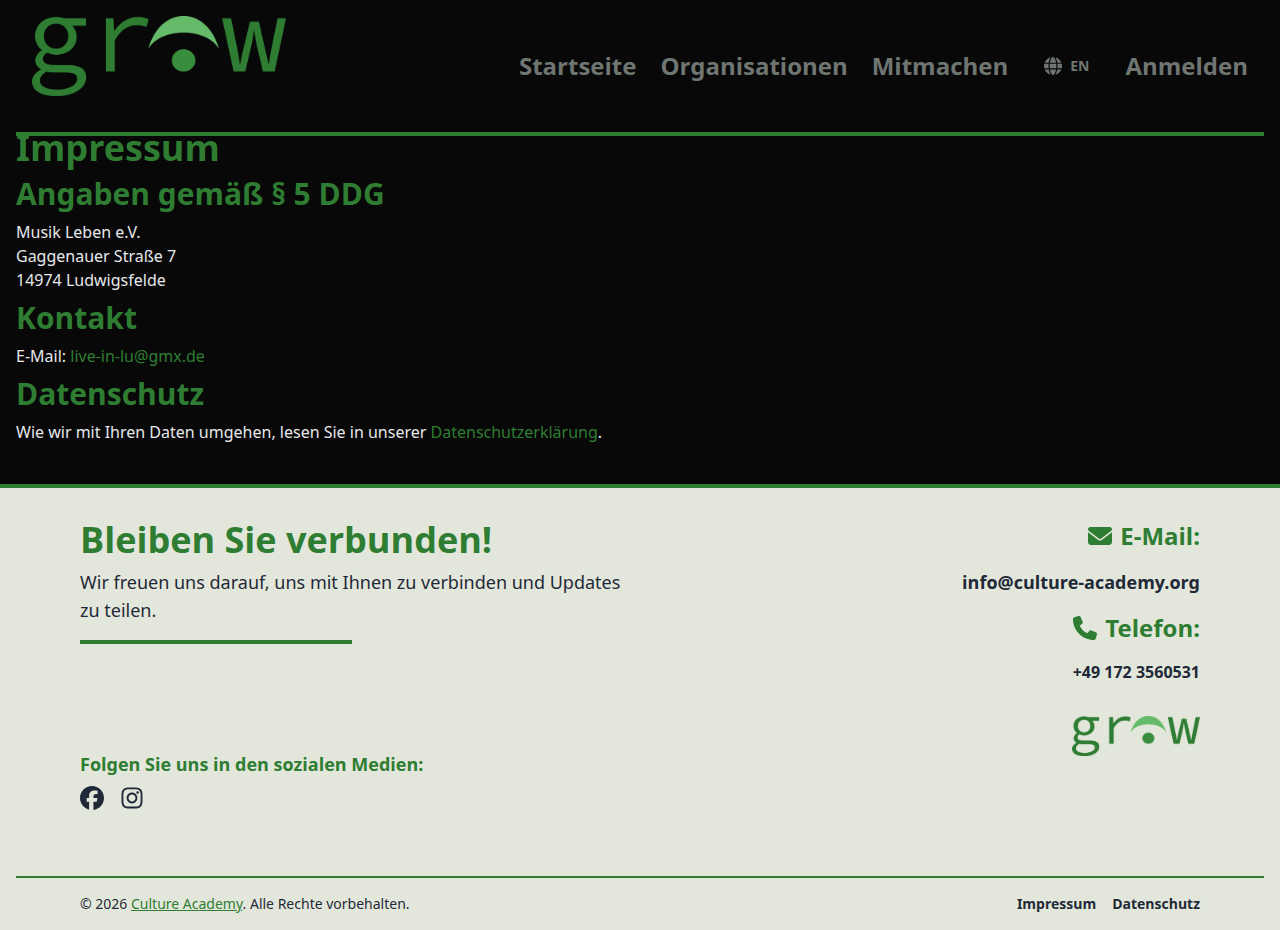
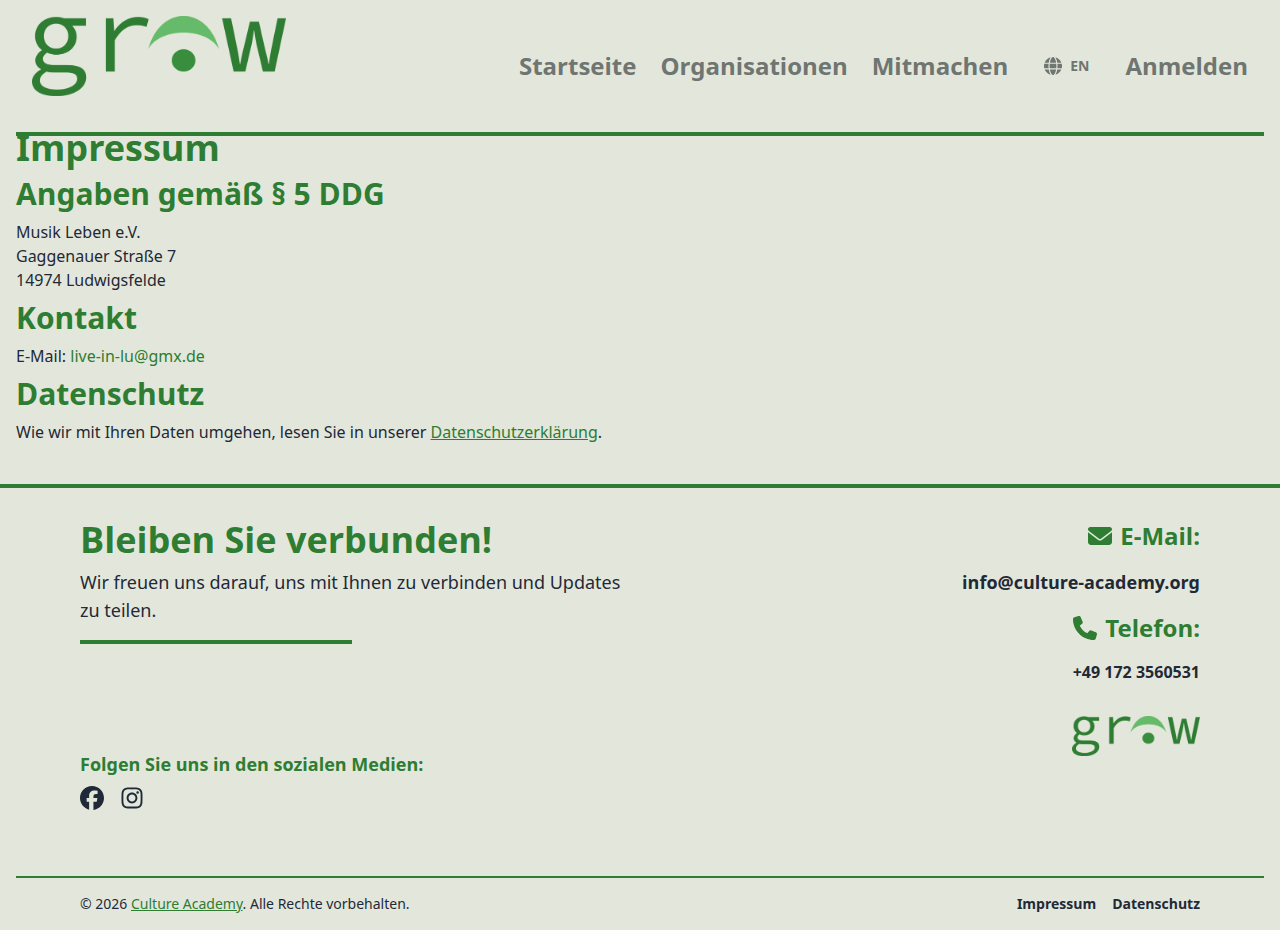
fix: redirect /privacy, light background on legal pages
- /privacy redirects permanently to /datenschutz
- Impressum and Datenschutz use the page background like other pages
- underline the in-text privacy link (axe link-in-text-block)

diff --git a/my-culture-app/src/views/Datenschutz.jsx b/my-culture-app/src/views/Datenschutz.jsx
@@ -14,7 +14,7 @@ const Datenschutz = () => {
   return (
     <main
       id="datenschutz"
-      className="flex flex-col justify-center items-center bg-neutral text-gray-200"
+      className="flex flex-col justify-center items-center text-gray-800"
     >
       <article className="max-w-screen-xl mt-32 flex flex-col gap-2 text-pretty px-4 mb-10">
         <h1 className="text-3xl sm:text-4xl font-bold text-primary">
@@ -205,7 +205,7 @@ const Datenschutz = () => {
           <br />
           <a
             href="mailto:live-in-lu@gmx.de"
-            className="text-primary hover:text-gray-200 hover:underline"
+            className="text-primary hover:underline"
           >
             live-in-lu@gmx.de
           </a>
@@ -250,7 +250,7 @@ const Datenschutz = () => {
         <p>
           <a
             href="https://www.bfdi.bund.de/DE/Infothek/Anschriften_Links/anschriften_links-node.html"
-            className="text-xs sm:text-lg text-primary hover:text-gray-200 hover:underline"
+            className="text-xs sm:text-lg text-primary hover:underline"
           >
             www.bfdi.bund.de/.../anschriften_links-node.html
           </a>

diff --git a/my-culture-app/src/views/Impressum.jsx b/my-culture-app/src/views/Impressum.jsx
@@ -16,7 +16,7 @@ const Impressum = () => {
   return (
     <main
       id="impressum"
-      className="flex flex-col justify-center items-center bg-neutral text-gray-200"
+      className="flex flex-col justify-center items-center text-gray-800"
     >
       <article className="max-w-screen-xl w-full mt-32 flex flex-col gap-2 text-pretty px-4 mb-10">
         <h1 className="text-3xl sm:text-4xl font-bold text-primary">
@@ -34,7 +34,7 @@ const Impressum = () => {
           E-Mail:{' '}
           <a
             href="mailto:live-in-lu@gmx.de"
-            className="text-primary hover:text-gray-200 hover:underline"
+            className="text-primary hover:underline"
           >
             live-in-lu@gmx.de
           </a>
@@ -46,7 +46,7 @@ const Impressum = () => {
           Wie wir mit Ihren Daten umgehen, lesen Sie in unserer{' '}
           <Link
             to="/datenschutz"
-            className="text-primary hover:text-gray-200 hover:underline"
+            className="text-primary underline hover:no-underline"
           >
             Datenschutzerklärung
           </Link>

diff --git a/my-culture-app/e2e/pages.spec.ts b/my-culture-app/e2e/pages.spec.ts
@@ -49,6 +49,14 @@ test('footer links lead to Impressum and Datenschutz', async ({ page }) => {
   await expect(page).toHaveURL(/\/datenschutz$/);
 });
 
+test('old /privacy link redirects to /datenschutz', async ({ page }) => {
+  await page.goto('/privacy');
+  await expect(page).toHaveURL(/\/datenschutz$/);
+  await expect(
+    page.getByRole('heading', { level: 1, name: 'Datenschutzerklärung' })
+  ).toBeVisible();
+});
+
 test('favicon and touch icon are served', async ({ request }) => {
   for (const path of ['/logo/favicon.ico', '/logo/apple-touch-icon.png']) {
     expect((await request.get(path)).status()).toBe(200);

diff --git a/my-culture-app/next.config.ts b/my-culture-app/next.config.ts
@@ -1,5 +1,12 @@
 import type { NextConfig } from 'next';
 
-const nextConfig: NextConfig = {/* config options here */};
+const nextConfig: NextConfig = {
+  // The footer used to link to /privacy; keep old links working.
+  async redirects() {
+    return [
+      { source: '/privacy', destination: '/datenschutz', permanent: true },
+    ];
+  },
+};
 
 export default nextConfig;

diff --git a/my-culture-app/docs/legal-pages/README.md b/my-culture-app/docs/legal-pages/README.md
@@ -8,3 +8,5 @@
 Still to be supplied by the operator before the Impressum is complete: the board members authorised to represent the association, register court and register number, and a phone number if one should be listed. The operator shown (Musik Leben e.V.) was taken from the existing privacy policy and needs to be confirmed.
 
 Screenshots: `impressum.png`, `datenschutz.png`, `icon-preview.png`.
+
+Update: both pages use the light page background like the other pages (they were black, inherited from the old Impressum). The in-text link to the privacy policy is underlined so it is recognisable without colour (WCAG). The old address `/privacy` redirects permanently to `/datenschutz`.
